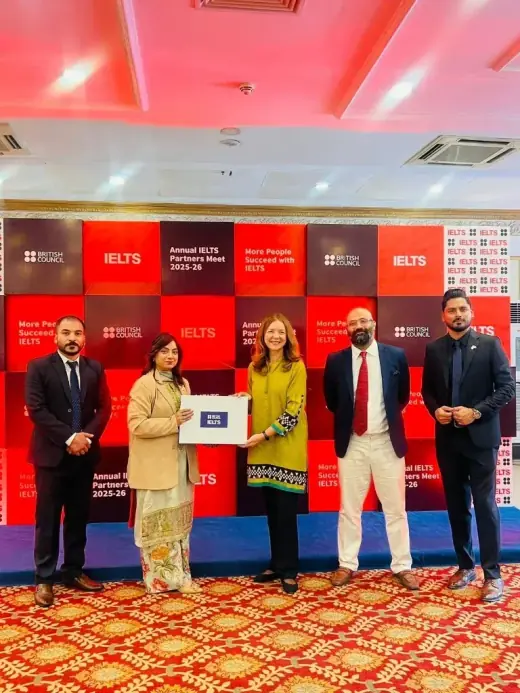
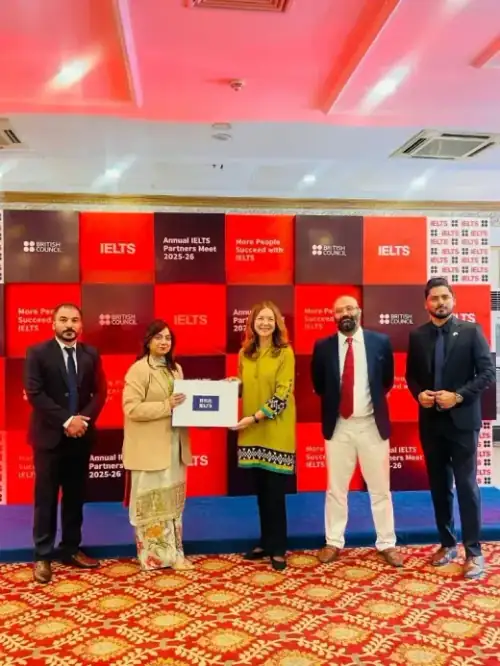
Eliminate unused CSS duplication and optimize hero WebP to 32 KB

Changed region(s): [[0.63, 0.7207, 0.66, 0.7508]]

diff --git a/dist/index.html b/dist/index.html
@@ -26,44 +26,6 @@
             href="https://fonts.googleapis.com/css2?family=Caveat:wght@600;700&family=Plus+Jakarta+Sans:wght@300;400;500;600;700;800&family=Playfair+Display:ital,wght@0,600;0,700;0,800;1,600&display=swap">
     </noscript>
 
-    <!-- Critical Above-the-Fold Inline CSS (Instant Paint <0.4s) -->
-    <style>
-        :root{--color-primary:#660033;--color-primary-dark:#4A0025;--color-primary-light:#721C24;--color-secondary:#C5A059;--color-secondary-hover:#B38E46;--color-accent:#8C5E10;--color-bg:#FFFFFF;--color-surface:#F8F9FA;--color-surface-card:#FFFFFF;--color-text-main:#2D2D2D;--color-text-muted:#555555;--color-text-light:#FFFFFF;--font-heading:'Playfair Display','Cinzel',Georgia,serif;--font-body:'Plus Jakarta Sans',-apple-system,BlinkMacSystemFont,sans-serif;--shadow-sm:0 4px 6px rgba(0,0,0,0.05);--shadow-md:0 10px 30px rgba(0,0,0,0.08);--radius-md:16px;--transition-smooth:all 0.3s cubic-bezier(0.4,0,0.2,1)}
-        *,*::before,*::after{margin:0;padding:0;box-sizing:border-box}
-        body{font-family:var(--font-body);color:var(--color-text-main);background-color:var(--color-bg);line-height:1.6;overflow-x:hidden}
-        .container{width:100%;max-width:1200px;margin:0 auto;padding:0 1.5rem}
-        .navbar{position:fixed;top:0;left:0;width:100%;z-index:1000;padding:0.75rem 0;background-color:rgba(255,255,255,0.85);backdrop-filter:blur(15px);border-bottom:1px solid rgba(255,255,255,0.2)}
-        .nav-container{display:flex;justify-content:space-between;align-items:center}
-        .nav-links{display:flex;align-items:center;list-style:none;gap:1.75rem}
-        .nav-links a{font-weight:600;font-size:0.95rem;color:var(--color-text-main);text-decoration:none}
-        .btn{display:inline-flex;align-items:center;justify-content:center;gap:0.5rem;font-weight:700;border-radius:50px;text-decoration:none;cursor:pointer;border:2px solid transparent;font-family:var(--font-body);transition:var(--transition-smooth)}
-        .btn-primary{background-color:var(--color-primary);color:var(--color-text-light)}
-        .btn-outline{border-color:var(--color-primary);color:var(--color-primary)}
-        .btn-lg{padding:1rem 2.5rem;font-size:1.1rem}
-        .btn-sm{padding:0.5rem 1.25rem;font-size:0.9rem}
-        .nav-btn{padding:0.65rem 1.6rem;font-size:0.9rem}
-        .mobile-menu-btn{display:none;background:none;border:none;font-size:1.75rem;color:var(--color-primary);cursor:pointer}
-        .hero{position:relative;min-height:auto;display:flex;align-items:center;padding-top:5.5rem;padding-bottom:3.5rem;background:#FFFDF7}
-        .hero-dots-grid{position:absolute;top:7.5rem;left:48%;transform:translateX(-50%);width:120px;height:70px;background-image:radial-gradient(var(--color-secondary) 2.5px,transparent 2.5px);background-size:16px 16px;opacity:0.8;z-index:0}
-        .hero-container{display:grid;grid-template-columns:1.15fr 0.85fr;gap:3rem;align-items:center;position:relative;z-index:1;width:100%}
-        .hero-title{font-family:var(--font-heading);font-size:3.5rem;font-weight:800;line-height:1.12;margin-bottom:1.25rem;color:var(--color-primary);font-display:swap}
-        .text-accent{color:#8C5E10}
-        .hero-subtitle{font-size:1.05rem;color:var(--color-text-muted);margin-bottom:2rem;line-height:1.6;max-width:90%}
-        .hero-actions{display:flex;gap:1.25rem;margin-bottom:2rem}
-        .hero-floating-stats{background-color:#FFFFFF;border-radius:20px;padding:0.9rem 1.4rem;box-shadow:0 12px 35px rgba(0,0,0,0.08);display:inline-flex;align-items:center;gap:1.1rem;border:1px solid rgba(0,0,0,0.06)}
-        .stat-col{display:flex;align-items:center;gap:0.65rem}
-        .stat-icon{font-size:1.5rem;color:var(--color-primary);display:flex;align-items:center;justify-content:center}
-        .stat-text strong{display:block;font-size:0.88rem;font-weight:800;color:#222222;line-height:1.15}
-        .stat-text span{font-size:0.78rem;font-weight:600;color:#666666}
-        .stat-col-divider{width:1px;height:32px;background-color:rgba(0,0,0,0.1)}
-        .hero-arc-wrapper{position:relative;width:100%;height:380px;display:flex;justify-content:flex-end;align-items:center}
-        .hero-arc-outer{position:relative;width:100%;max-width:500px;height:100%;border-radius:260px 0 0 260px;background:linear-gradient(135deg,var(--color-primary) 0%,var(--color-primary-dark) 100%);padding:10px 0 10px 10px;border-left:7px solid var(--color-secondary);box-shadow:-20px 20px 60px rgba(102,0,51,0.22)}
-        .hero-arc-image-container{width:100%;height:100%;border-radius:250px 0 0 250px;overflow:hidden;aspect-ratio:500/380}
-        .hero-arc-image-container img{width:100%;height:100%;aspect-ratio:500/380;object-fit:cover;object-position:center;display:block}
-        @media (max-width:992px){.nav-links{display:none;flex-direction:column;position:absolute;top:100%;left:0;width:100%;background-color:#FFFFFF;padding:1.5rem;box-shadow:0 10px 20px rgba(0,0,0,0.1);gap:1.25rem}.mobile-menu-btn{display:block}}
-        @media (max-width:576px){.container{padding-left:0.85rem;padding-right:0.85rem}.hero{min-height:100vh!important;display:flex!important;flex-direction:column!important;align-items:center!important;justify-content:center!important;padding-top:6.5rem!important;padding-bottom:7.5rem!important}.hero-dots-grid{top:7.8rem!important}.hero-container{width:100%!important;display:flex!important;flex-direction:column!important;align-items:center!important;justify-content:space-between!important}.hero-content{width:100%!important;display:flex!important;flex-direction:column!important;align-items:center!important;text-align:center!important}.hero-title{font-size:1.7rem!important;line-height:1.25!important;margin-top:4.8rem!important;margin-bottom:1.5rem!important}.hero-subtitle{font-size:0.88rem!important;line-height:1.45!important;margin-bottom:3.5rem!important}.hero-actions{display:flex!important;flex-direction:column!important;width:100%!important;max-width:330px!important;gap:1rem!important;margin-top:0.5rem!important;margin-bottom:4.5rem!important}.hero-floating-stats{width:100%!important;max-width:330px!important;padding:0.6rem 0.5rem!important;justify-content:space-between!important;gap:0!important;margin-top:0.5rem!important}.stat-col{gap:0.35rem!important;flex:1!important;justify-content:center!important}.stat-icon{font-size:1.05rem!important}.stat-text strong{font-size:0.65rem!important;line-height:1.1!important}.stat-text span{font-size:0.58rem!important}.stat-col-divider{height:22px!important;margin:0 1px!important}.hero-arc-wrapper{display:none!important}}
-    </style>
-
     <link rel="stylesheet" crossorigin href="/assets/index-B9CvkIQQ.css">
 </head>
 

diff --git a/index.html b/index.html
@@ -26,43 +26,6 @@
             href="https://fonts.googleapis.com/css2?family=Caveat:wght@600;700&family=Plus+Jakarta+Sans:wght@300;400;500;600;700;800&family=Playfair+Display:ital,wght@0,600;0,700;0,800;1,600&display=swap">
     </noscript>
 
-    <!-- Critical Above-the-Fold Inline CSS (Instant Paint <0.4s) -->
-    <style>
-        :root{--color-primary:#660033;--color-primary-dark:#4A0025;--color-primary-light:#721C24;--color-secondary:#C5A059;--color-secondary-hover:#B38E46;--color-accent:#8C5E10;--color-bg:#FFFFFF;--color-surface:#F8F9FA;--color-surface-card:#FFFFFF;--color-text-main:#2D2D2D;--color-text-muted:#555555;--color-text-light:#FFFFFF;--font-heading:'Playfair Display','Cinzel',Georgia,serif;--font-body:'Plus Jakarta Sans',-apple-system,BlinkMacSystemFont,sans-serif;--shadow-sm:0 4px 6px rgba(0,0,0,0.05);--shadow-md:0 10px 30px rgba(0,0,0,0.08);--radius-md:16px;--transition-smooth:all 0.3s cubic-bezier(0.4,0,0.2,1)}
-        *,*::before,*::after{margin:0;padding:0;box-sizing:border-box}
-        body{font-family:var(--font-body);color:var(--color-text-main);background-color:var(--color-bg);line-height:1.6;overflow-x:hidden}
-        .container{width:100%;max-width:1200px;margin:0 auto;padding:0 1.5rem}
-        .navbar{position:fixed;top:0;left:0;width:100%;z-index:1000;padding:0.75rem 0;background-color:rgba(255,255,255,0.85);backdrop-filter:blur(15px);border-bottom:1px solid rgba(255,255,255,0.2)}
-        .nav-container{display:flex;justify-content:space-between;align-items:center}
-        .nav-links{display:flex;align-items:center;list-style:none;gap:1.75rem}
-        .nav-links a{font-weight:600;font-size:0.95rem;color:var(--color-text-main);text-decoration:none}
-        .btn{display:inline-flex;align-items:center;justify-content:center;gap:0.5rem;font-weight:700;border-radius:50px;text-decoration:none;cursor:pointer;border:2px solid transparent;font-family:var(--font-body);transition:var(--transition-smooth)}
-        .btn-primary{background-color:var(--color-primary);color:var(--color-text-light)}
-        .btn-outline{border-color:var(--color-primary);color:var(--color-primary)}
-        .btn-lg{padding:1rem 2.5rem;font-size:1.1rem}
-        .btn-sm{padding:0.5rem 1.25rem;font-size:0.9rem}
-        .nav-btn{padding:0.65rem 1.6rem;font-size:0.9rem}
-        .mobile-menu-btn{display:none;background:none;border:none;font-size:1.75rem;color:var(--color-primary);cursor:pointer}
-        .hero{position:relative;min-height:auto;display:flex;align-items:center;padding-top:5.5rem;padding-bottom:3.5rem;background:#FFFDF7}
-        .hero-dots-grid{position:absolute;top:7.5rem;left:48%;transform:translateX(-50%);width:120px;height:70px;background-image:radial-gradient(var(--color-secondary) 2.5px,transparent 2.5px);background-size:16px 16px;opacity:0.8;z-index:0}
-        .hero-container{display:grid;grid-template-columns:1.15fr 0.85fr;gap:3rem;align-items:center;position:relative;z-index:1;width:100%}
-        .hero-title{font-family:var(--font-heading);font-size:3.5rem;font-weight:800;line-height:1.12;margin-bottom:1.25rem;color:var(--color-primary);font-display:swap}
-        .text-accent{color:#8C5E10}
-        .hero-subtitle{font-size:1.05rem;color:var(--color-text-muted);margin-bottom:2rem;line-height:1.6;max-width:90%}
-        .hero-actions{display:flex;gap:1.25rem;margin-bottom:2rem}
-        .hero-floating-stats{background-color:#FFFFFF;border-radius:20px;padding:0.9rem 1.4rem;box-shadow:0 12px 35px rgba(0,0,0,0.08);display:inline-flex;align-items:center;gap:1.1rem;border:1px solid rgba(0,0,0,0.06)}
-        .stat-col{display:flex;align-items:center;gap:0.65rem}
-        .stat-icon{font-size:1.5rem;color:var(--color-primary);display:flex;align-items:center;justify-content:center}
-        .stat-text strong{display:block;font-size:0.88rem;font-weight:800;color:#222222;line-height:1.15}
-        .stat-text span{font-size:0.78rem;font-weight:600;color:#666666}
-        .stat-col-divider{width:1px;height:32px;background-color:rgba(0,0,0,0.1)}
-        .hero-arc-wrapper{position:relative;width:100%;height:380px;display:flex;justify-content:flex-end;align-items:center}
-        .hero-arc-outer{position:relative;width:100%;max-width:500px;height:100%;border-radius:260px 0 0 260px;background:linear-gradient(135deg,var(--color-primary) 0%,var(--color-primary-dark) 100%);padding:10px 0 10px 10px;border-left:7px solid var(--color-secondary);box-shadow:-20px 20px 60px rgba(102,0,51,0.22)}
-        .hero-arc-image-container{width:100%;height:100%;border-radius:250px 0 0 250px;overflow:hidden;aspect-ratio:500/380}
-        .hero-arc-image-container img{width:100%;height:100%;aspect-ratio:500/380;object-fit:cover;object-position:center;display:block}
-        @media (max-width:992px){.nav-links{display:none;flex-direction:column;position:absolute;top:100%;left:0;width:100%;background-color:#FFFFFF;padding:1.5rem;box-shadow:0 10px 20px rgba(0,0,0,0.1);gap:1.25rem}.mobile-menu-btn{display:block}}
-        @media (max-width:576px){.container{padding-left:0.85rem;padding-right:0.85rem}.hero{min-height:100vh!important;display:flex!important;flex-direction:column!important;align-items:center!important;justify-content:center!important;padding-top:6.5rem!important;padding-bottom:7.5rem!important}.hero-dots-grid{top:7.8rem!important}.hero-container{width:100%!important;display:flex!important;flex-direction:column!important;align-items:center!important;justify-content:space-between!important}.hero-content{width:100%!important;display:flex!important;flex-direction:column!important;align-items:center!important;text-align:center!important}.hero-title{font-size:1.7rem!important;line-height:1.25!important;margin-top:4.8rem!important;margin-bottom:1.5rem!important}.hero-subtitle{font-size:0.88rem!important;line-height:1.45!important;margin-bottom:3.5rem!important}.hero-actions{display:flex!important;flex-direction:column!important;width:100%!important;max-width:330px!important;gap:1rem!important;margin-top:0.5rem!important;margin-bottom:4.5rem!important}.hero-floating-stats{width:100%!important;max-width:330px!important;padding:0.6rem 0.5rem!important;justify-content:space-between!important;gap:0!important;margin-top:0.5rem!important}.stat-col{gap:0.35rem!important;flex:1!important;justify-content:center!important}.stat-icon{font-size:1.05rem!important}.stat-text strong{font-size:0.65rem!important;line-height:1.1!important}.stat-text span{font-size:0.58rem!important}.stat-col-divider{height:22px!important;margin:0 1px!important}.hero-arc-wrapper{display:none!important}}
-    </style>
 </head>
 
 <body>
